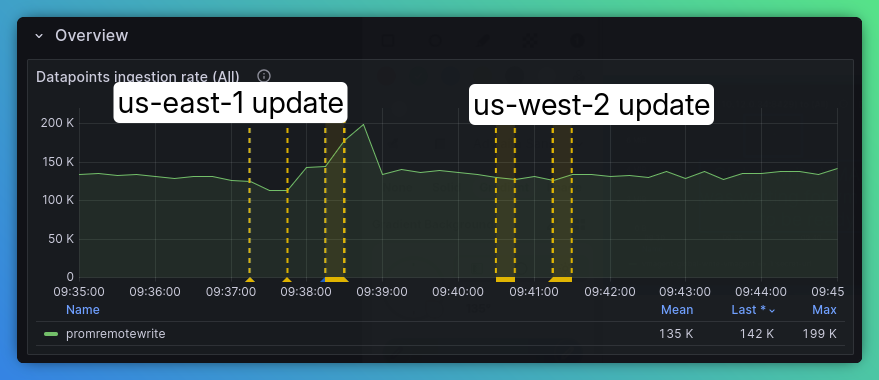
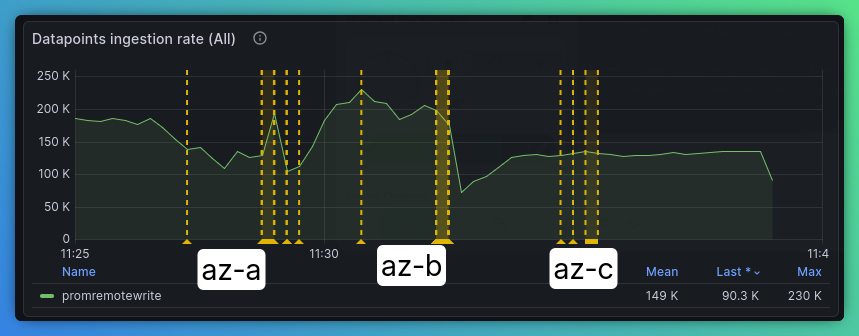
Update

diff --git a/README.md b/README.md
@@ -20,7 +20,7 @@ kubectl apply -f 01-operator-image.yaml
 3. Deploy VMDistributedCluster example
 ```bash
 kubectl create namespace vmdistributed
-kubectl apply -f 02-vmdistributedcluster.yaml
+kubectl apply -f 03-vmdistributedcluster.yaml
 kubectl -n vmdistributed wait --for=jsonpath='{.status.updateStatus}'=operational vmdistributedcluster/vmd --timeout=30m
 ``` 
 
@@ -31,45 +31,13 @@ git checkout vmdistributedcr
 make install
 ```
 
-5. Add Grafana datasources:
-
-* Global 
-  http://global-read-vmauth.vm.svc.cluster.local:8427/select/0/prometheus
-* US East 1
-  http://vmselect-vmcluster-us-east-1.vm.svc.cluster.local:8481/select/0/prometheus
-* US West 1
-  http://vmselect-vmcluster-us-west-2.vm.svc.cluster.local:8481/select/0/prometheus
-* EU West 1
-  http://vmselect-vmcluster-eu-west-1.vm.svc.cluster.local:8481/select/0/prometheus
-
-7. Update clusters
-```yaml
-spec:
-  zones:
-    globalOverrideSpec:
-      vminsert:
-        replicaCount: 4
-        resources:
-          requests:
-            cpu: 200m
-            memory: 512Mi
-          limits:
-            cpu: 1000m
-            memory: 1024Mi
-      vmstorage:
-        replicaCount: 4
-        resources:
-          requests:
-            memory: 1Gi
-          limits:
-            memory: 3Gi
-```
+5. Update clusters
 
 ```bash
-kubectl patch vmdistributedcluster vmd -n vmdistributed --type json --patch-file 07-vmd-extraargs-patch.json
+kubectl patch vmdistributedcluster vmd -n vmdistributed --type merge --patch-file 05-vmd-resources-patch.yaml
 ```
 
-8. After cluster update the following metrics show the process:
+6. After cluster update the following metrics show the process:
 
 VMAgent dashboard:
 ![Pic1](pic1.png)
@@ -81,29 +49,24 @@ VMCluster Global dashboard - no disruption in read path:
 ![Pic3](pic3.png)
 
 ----
-EU West cluster as a baseline:
-![Pic4](pic4-eu-west-read.png)
+No reads on AZ A until zone B update starts:
+![Pic4](pic4-az-a.png)
 
 ----
-US East read is droping right before update:
-![Pic4](pic4-us-east-read.png)
+Same for AZ B:
+![Pic4](pic4-az-b.png)
 
 ----
-US West read is droping right before update:
-![Pic4](pic4-us-west-read.png)
+And Zone C:
+![Pic4](pic4-az-c.png)
 
 9. Upgrade versions
 
 ```yaml
 spec:
   zones:
-    vmclusters:
-    - name: vmcluster-us-east-1
-      spec:
-        clusterVersion: v1.131.0-cluster
-    - name: vmcluster-us-west-2
-      spec:
-        clusterVersion: v1.131.0-cluster
+    globalOverrideSpec:
+      clusterVersion: v1.132.0-cluster
 ```
 
 ```bash
